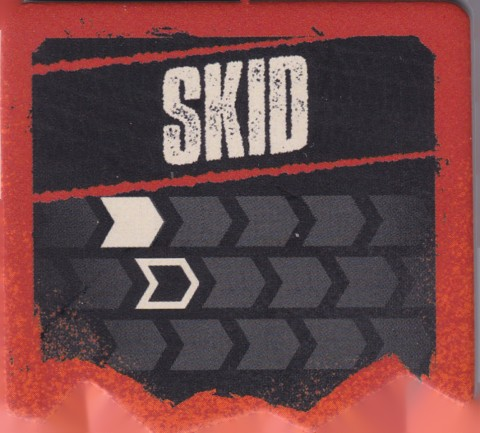
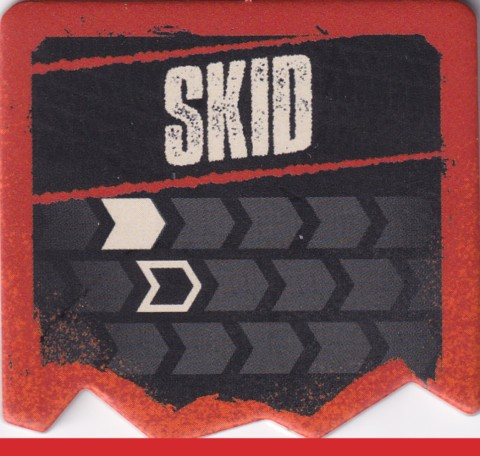
fix: segnalini danno disegnati sulla sagoma del template
La cornice rossa, il bordo strappato e il retro vengono dalla sagoma del
proprietario (assets/base/segnalini/danno/template.svg); la grafica stampata del
fronte, ritagliata sui bordi della cornice rossa, si vede solo dentro la cornice.
Niente più carta bianca ai lati né bordo inferiore tagliato. Vale anche per i
due danni di Carnage at Devil's Run.

Riferimento: design/art/asset-status.md

diff --git a/src/view/vector/art.ts b/src/view/vector/art.ts
@@ -248,31 +248,33 @@ export function hazardTokenSvg(type: string | null, faceUp: boolean, extra = '')
 const DAMAGE_TITLE: Record<string, string> = { shrapnel: 'SCHEGGE', dazed: 'STORDITO', dent: 'AMMACCATURA', skid: 'SBANDATA', blastoff: 'DECOLLO', on_fire: 'IN FIAMME', ongoing_effect: 'EFFETTO' };
 
 /**
- * The official damage tokens as printed (tools/art/save_damage_tokens.py): fronts by type, the six
- * SKID tokens by direction (skid_F … skid_BR) and the back, cut in the game with the owner's outline;
- * with Carnage at Devil's Run's ON FIRE and ONGOING EFFECT (tools/art/save_carnage_tokens.py).
+ * The printed art of the official damage token fronts (tools/art/save_damage_tokens.py), cut to
+ * the token's red frame: by type, the six SKID tokens by direction (skid_F … skid_BR), and Carnage
+ * at Devil's Run's ON FIRE and ONGOING EFFECT (tools/art/save_carnage_tokens.py).
  */
 const DAMAGE_PRINT: Record<string, string> = Object.fromEntries(Object.entries(
   import.meta.glob<string>(['/assets/base/segnalini/danno/*.jpg', '/assets/carnage/segnalini/danno/*.jpg'], { eager: true, query: '?url', import: 'default' }),
 ).map(([path, url]) => [path.replace(/^.*\/|\.\w+$/g, ''), url]));
-/** Width / height of the printed tokens (the scans, 480 x 433). */
-const DAMAGE_PRINT_RATIO = 480 / 433;
+/** Height / width of the printed fronts (FACE_RATIO in tools/art/save_damage_tokens.py). */
+const DAMAGE_PRINT_RATIO = 0.95;
 
-/** The printed token `name` cut with the owner's outline (front or back), or null without both. */
-function printedDamage(name: string, back: boolean, extra: string): string | null {
+/**
+ * A damage token front: the owner's outline (red frame, torn edge) with the printed art inside the
+ * frame. The picture's edges are the frame's outer edges, so it sits where it was printed; only what
+ * is inside the frame's inner edge shows. Null without the outline or the picture.
+ */
+function printedDamage(name: string, extra: string): string | null {
   const own = ownerDamage, url = DAMAGE_PRINT[name];
-  if (!own || !url) return null;
-  const id = `dmg-${back ? 'back' : 'front'}`;
-  const w = 104, h = w / DAMAGE_PRINT_RATIO;
-  return svg(110, 100, `<defs><clipPath id="${id}">${back ? own.backClip : own.frontClip}</clipPath></defs>`
-    + `<image href="${url}" x="3" y="3" width="${w}" height="${h.toFixed(2)}" preserveAspectRatio="none" clip-path="url(#${id})"/>`, extra);
+  if (!own || !url || !own.frontInner) return null;
+  const { x, y, w } = own.frontBox;
+  return svg(110, 100, own.front + `<defs><clipPath id="dmg-inner"><path d="${own.frontInner}"/></clipPath></defs>`
+    + `<g transform="${own.frontAt}"><image href="${url}" x="${x}" y="${y}" width="${w}" height="${(w * DAMAGE_PRINT_RATIO).toFixed(2)}" preserveAspectRatio="none" clip-path="url(#dmg-inner)"/></g>`, extra);
 }
 
 /** Damage token, 110 x 100, torn bottom edge. faceUp=false draws the back (brake warning). */
 export function damageTokenSvg(type: string | null, faceUp: boolean, dir?: ArtDir, extra = ''): string {
-  // The printed token when there is one; drawn otherwise.
-  const printed = !faceUp || !type ? printedDamage('back', true, extra)
-    : printedDamage(type === 'skid' ? `skid_${dir ?? 'F'}` : type, false, extra);
+  // The front: the printed art in the owner's outline, when there is one. The back is the owner's drawing.
+  const printed = faceUp && type ? printedDamage(type === 'skid' ? `skid_${dir ?? 'F'}` : type, extra) : null;
   if (printed) return printed;
   const own = ownerDamage;
   if (!own) {

diff --git a/tests/unit/view/art.test.ts b/tests/unit/view/art.test.ts
@@ -53,15 +53,25 @@ describe('vector art', () => {
     expect(own!.front).toContain('#d42a2f'); // the red frame
     expect(own!.back).toContain('stroke="#d42a2f"'); // the warning sign
   });
-  it('shows the base game damage tokens as printed, cut with the owner’s outline', () => {
-    // Arrange / Act / Assert: each front is its own printed token inside the front's outline.
+  it('draws the base damage tokens on the owner’s outline, with the printed art inside the red frame', () => {
+    // Arrange
+    const own = ownerDamage(readFileSync('assets/base/segnalini/danno/template.svg', 'utf8'))!;
     for (const type of ['shrapnel', 'dazed', 'dent', 'blastoff']) {
+      // Act
       const s = damageTokenSvg(type, true);
-      expect(s).toMatch(new RegExp(`<image href="[^"]*/${type}[^"/]*\\.jpg"`));
-      expect(s).toMatch(/<clipPath id="dmg-front"><path transform="[^"]*translate\(-33\.09 -44\)"/);
+      // Assert: the owner's frame, then the picture laid on the frame's outer edges, shown only inside it.
+      expect(s).toContain('fill="#d42a2f"');
+      expect(s).toMatch(new RegExp(`<image href="[^"]*/${type}[^"/]*\\.jpg" x="33.09" y="44" width="213.82"`));
+      expect(s).toContain(`<clipPath id="dmg-inner"><path d="${own.frontInner}"/>`);
     }
-    // The back, with the back's outline.
-    expect(damageTokenSvg(null, false)).toMatch(/<clipPath id="dmg-back"><path transform="[^"]*translate\(-293\.09 -44\)"/);
+    // The inside of the frame starts inside the outer edge, below the top.
+    expect(own.frontInner).toMatch(/^M233\.82,57\.09/);
+  });
+  it('draws the damage token back from the owner’s drawing, with no printed picture', () => {
+    const back = damageTokenSvg(null, false);
+    expect(back).not.toContain('<image');
+    expect(back).toContain('translate(-293.09 -44)');
+    expect(back).toContain('stroke="#d42a2f"');
   });
   it('shows each SKID token with its own direction', () => {
     for (const dir of ['F', 'FL', 'FR', 'B', 'BL', 'BR'] as const) {
@@ -72,7 +82,7 @@ describe('vector art', () => {
     for (const type of ['on_fire', 'ongoing_effect']) {
       const s = damageTokenSvg(type, true);
       expect(s).toMatch(new RegExp(`<image href="[^"]*carnage/segnalini/danno/${type}[^"/]*\.jpg"`));
-      expect(s).toContain('clip-path="url(#dmg-front)"');
+      expect(s).toContain('clip-path="url(#dmg-inner)"');
     }
   });
   it('shows the Carnage hazard tokens as printed, in the base chevron, with the expansion’s own back', () => {

diff --git a/src/view/vector/damage.ts b/src/view/vector/damage.ts
@@ -23,6 +23,12 @@ export interface OwnerDamage {
   frontClip: string;
   /** The back's shape, the same way. */
   backClip: string;
+  /** The front's placement in the 110 x 100 box: a transform from the drawing's units. */
+  frontAt: string;
+  /** The inside of the front's red frame (its inner edge, torn at the bottom), in the drawing's units. */
+  frontInner: string;
+  /** The front's outer box in the drawing's units: left, top, width. */
+  frontBox: { x: number; y: number; w: number };
 }
 
 /**
@@ -43,7 +49,14 @@ export function ownerDamage(raw: string): OwnerDamage | null {
   // A clip path takes shapes, not groups: every path of the side, each with the side's placement.
   const shape = (g: string, x: number): string => [...g.matchAll(/<path\b[^>]*?\sd="([^"]+)"/g)]
     .map(m => `<path transform="${at(x)}" d="${m[1]}"/>`).join('');
-  return { front: place(front, FRONT_X), back: place(back, BACK_X), frontClip: shape(front, FRONT_X), backClip: shape(back, BACK_X) };
+  // The red frame is one path with two rings: the outer edge and the inner one (which starts below the top).
+  const red = /<path[^>]*fill="#d42a2f"[^>]*\sd="([^"]+)"/.exec(front)?.[1] ?? /<path[^>]*\sd="([^"]+)"[^>]*fill="#d42a2f"/.exec(front)?.[1] ?? '';
+  const rings = red.split(/(?=M)/).map(r => r.trim()).filter(Boolean);
+  const inner = rings.find(r => Number(/^M[\d.]+,([\d.]+)/.exec(r)?.[1] ?? NaN) > TOP + 1) ?? '';
+  return {
+    front: place(front, FRONT_X), back: place(back, BACK_X), frontClip: shape(front, FRONT_X), backClip: shape(back, BACK_X),
+    frontAt: at(FRONT_X), frontInner: inner, frontBox: { x: FRONT_X, y: TOP, w: WIDTH },
+  };
 }
 
 /** Inner edge of the front's red frame in the 110 x 100 box: left, top, right (the frame is 13 units thick in the drawing). */

diff --git a/tests/unit/admin/assets.test.ts b/tests/unit/admin/assets.test.ts
@@ -23,8 +23,8 @@ describe('extracted official images', () => {
     expect(missing(SHOPPE.leaders.map(l => `assets/choppe_shoppe/avatar_personaggi/${l.id}.png`))).toEqual([]);
   });
 
-  it('has the printed damage tokens, the back and the six SKID directions', () => {
-    const names = [...new Set((RULES.damage_tokens as { type: string; dir?: string }[]).map(d => (d.dir ? `${d.type}_${d.dir}` : d.type))), 'back'];
+  it('has the printed art of every damage token front, the six SKID directions included', () => {
+    const names = [...new Set((RULES.damage_tokens as { type: string; dir?: string }[]).map(d => (d.dir ? `${d.type}_${d.dir}` : d.type)))];
     expect(missing(names.map(n => `assets/base/segnalini/danno/${n}.jpg`))).toEqual([]);
   });
 

diff --git a/tools/art/save_damage_tokens.py b/tools/art/save_damage_tokens.py
@@ -1,9 +1,12 @@
 """Saves the base game's damage tokens for the game, from the official scans
 (assets/estratti/base/damage/*.png, cut by tools/assets/extract_base.py from Custom Tiles Base.pdf).
 
-The front of each token and the back are kept as printed: assets/base/segnalini/danno/<type>.jpg.
-The game cuts them with the owner's outline (assets/base/segnalini/danno/template.svg), so the
-white page left in the notches of the torn edge never shows.
+The game draws each token on the owner's outline (assets/base/segnalini/danno/template.svg): the
+red frame with its torn edge, and the back whole, are the owner's drawing; inside the frame goes
+the printed art. So this script keeps the front of each token as printed, cut to the token's red
+silhouette (left, right and top edges of the frame), FACE_RATIO of its width tall:
+assets/base/segnalini/danno/<type>.jpg. The game lays that picture on the outline's edges and shows
+it only inside the frame, so neither the page around the token nor the scan's torn edge shows.
 
 SKID comes in six tokens, one per direction (rulebook p. 12), but the scans hold only the forward
 one: a grid of chevrons, rows offset by half a space like the board, the car on the hollow chevron
@@ -21,8 +24,10 @@ import numpy as np
 
 SRC = Path('assets/estratti/base/damage')
 OUT = Path('assets/base/segnalini/danno')
-TYPES = ['blastoff', 'dazed', 'dent', 'shrapnel', 'skid', 'back']
+TYPES = ['blastoff', 'dazed', 'dent', 'shrapnel', 'skid']
 WIDTH = 480
+#: Height / width of a saved front: the whole outline (its lowest torn point is at 0.91), and a little more.
+FACE_RATIO = 0.95
 
 #: The chevron grid of the skid scan (1064 x 960 px), measured on it: the car's (hollow) chevron,
 #: the step between spaces along a row, and between rows.
@@ -89,8 +94,25 @@ def shrink_to(img: np.ndarray, width: int) -> np.ndarray:
     return cv2.resize(small, (width, round(width * img.shape[0] / img.shape[1])), interpolation=cv2.INTER_AREA)
 
 
+def face_crop(img: np.ndarray) -> np.ndarray:
+    """The token cut to its red frame: from the frame's left to its right edge and from its top
+    edge down, FACE_RATIO of the width tall (padded with the frame's red past the scan's bottom)."""
+    hsv = cv2.cvtColor(img, cv2.COLOR_BGR2HSV)
+    h, w = img.shape[:2]
+    red = (hsv[:, :, 1] > 90) & (hsv[:, :, 2] > 90) & ((hsv[:, :, 0] < 15) | (hsv[:, :, 0] > 160))
+    cols = np.nonzero(red[int(h * 0.3):int(h * 0.6)].mean(axis=0) > 0.5)[0]
+    rows = np.nonzero(red[:, int(w * 0.3):int(w * 0.7)].mean(axis=1) > 0.5)[0]
+    left, right, top = cols.min(), cols.max() + 1, rows.min()
+    tall = round((right - left) * FACE_RATIO)
+    out = np.empty((tall, right - left, 3), np.uint8)
+    out[:] = (47, 42, 212)  # the frame's red (BGR), only where the scan ends
+    part = img[top:top + tall, left:right]
+    out[:part.shape[0]] = part
+    return out
+
+
 def save(img: np.ndarray, name: str) -> None:
-    small = no_paper(shrink_to(img, WIDTH))
+    small = cv2.resize(shrink_to(face_crop(img), WIDTH), (WIDTH, round(WIDTH * FACE_RATIO)), interpolation=cv2.INTER_AREA)
     cv2.imwrite(str(OUT / f'{name}.jpg'), small, [cv2.IMWRITE_JPEG_QUALITY, 90])
     print(name, small.shape[1], 'x', small.shape[0])
 

diff --git a/tools/art/save_carnage_tokens.py b/tools/art/save_carnage_tokens.py
@@ -6,8 +6,8 @@
   them with the base hazard chevron (src/view/vector/art.ts);
 - the two new damage tokens, ON FIRE and ONGOING EFFECT (Custom Tiles.pdf,
   assets/estratti/expansions/custom_tiles), saved like the base damage tokens
-  (tools/art/save_damage_tokens.py) as assets/carnage/segnalini/danno/<type>.jpg. Their back is the
-  base game's (the same scan).
+  (tools/art/save_damage_tokens.py: cut to the red frame) as assets/carnage/segnalini/danno/<type>.jpg.
+  Their back is the base game's: the owner's drawing.
 
 Which scan is which was read off the scans themselves (the printed names and pictures). The danger
 tile sheet also holds the base game's mine, oil and back (red; the expansion's back is orange, with its mark) and five plain sand tiles: not tokens of
@@ -22,7 +22,7 @@ import cv2
 import numpy as np
 
 sys.path.insert(0, str(Path(__file__).parent))
-from save_damage_tokens import flat, no_paper, shrink_to  # noqa: E402
+from save_damage_tokens import FACE_RATIO, face_crop, flat, no_paper, shrink_to  # noqa: E402
 
 DANGER = Path('assets/estratti/expansions/danger_tiles')
 CUSTOM = Path('assets/estratti/expansions/custom_tiles')
@@ -40,7 +40,6 @@ PAPER_MIN = 222
 #: Share of the cut token, right and bottom, that is the scanner's shadow (measured: ~11 px of 306 at the bottom).
 SHADOW = (0.01, 0.036)
 DAMAGE_WIDTH = 480
-DAMAGE_SIZE = (480, 433)
 
 
 def scan(folder: Path, page: int) -> np.ndarray:
@@ -67,8 +66,8 @@ def main() -> None:
         cv2.imwrite(str(OUT_HAZARD / f'{name}.jpg'), tok, [cv2.IMWRITE_JPEG_QUALITY, 90])
         print('pericolo', name, tok.shape[1], 'x', tok.shape[0])
     for page, name in DAMAGE.items():
-        # Cut to the token and set to the base tokens' size (480 x 433), so the same outline cuts it.
-        tok = no_paper(cv2.resize(shrink_to(token_box(scan(CUSTOM, page)), DAMAGE_WIDTH), DAMAGE_SIZE, interpolation=cv2.INTER_AREA))
+        # Cut to the red frame like the base tokens, so the same outline frames it.
+        tok = cv2.resize(shrink_to(face_crop(scan(CUSTOM, page)), DAMAGE_WIDTH), (DAMAGE_WIDTH, round(DAMAGE_WIDTH * FACE_RATIO)), interpolation=cv2.INTER_AREA)
         cv2.imwrite(str(OUT_DAMAGE / f'{name}.jpg'), tok, [cv2.IMWRITE_JPEG_QUALITY, 90])
         print('danno', name, tok.shape[1], 'x', tok.shape[0])
 

diff --git a/design/art/asset-status.md b/design/art/asset-status.md
@@ -32,9 +32,11 @@ I dati vivi sono in `data/trv/assets_catalog.json` e nel pannello admin
   - dadi strada, acrobazia, slam, sparo, direzione;
   - segnalini pericolo (5 tipi e retro);
   - i tre cruscotti e la plancia comandi per ogni crew.
-- **Estratti**: i segnalini danno come stampati (`tools/art/save_damage_tokens.py`, in
-  `assets/base/segnalini/danno/`), ritagliati nel gioco con la sagoma del proprietario
-  (`template.svg`). Le sei Sbandate: la scansione ha solo quella in avanti; le altre cinque sono
+- **Estratti**: i segnalini danno. La sagoma del proprietario (`template.svg`) disegna la cornice
+  rossa col bordo strappato e tutto il retro; dentro la cornice va la grafica stampata del fronte
+  (`tools/art/save_damage_tokens.py`, ritagliata sui bordi della cornice rossa, in
+  `assets/base/segnalini/danno/`), così non si vedono né la carta bianca né il bordo tagliato della
+  scansione. Le sei Sbandate: la scansione ha solo quella in avanti; le altre cinque sono
   ricavate da questa spostando il chevron pieno nella casella della direzione, come sulle facce
   del dado direzione (avanti, avanti-sinistra, avanti-destra, indietro e le due diagonali
   indietro). È una ricostruzione: va confrontata con i segnalini fisici.
